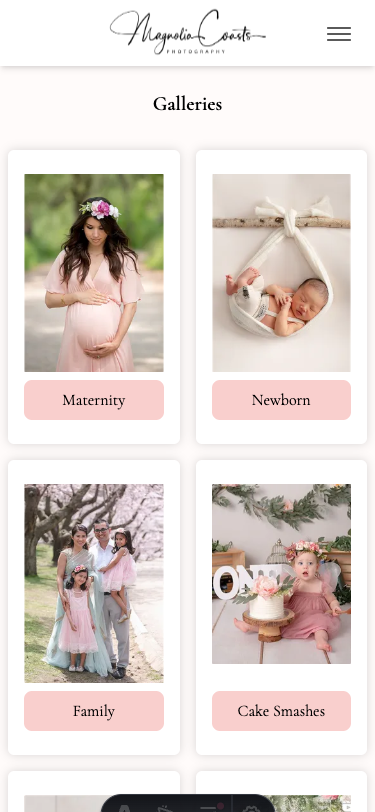
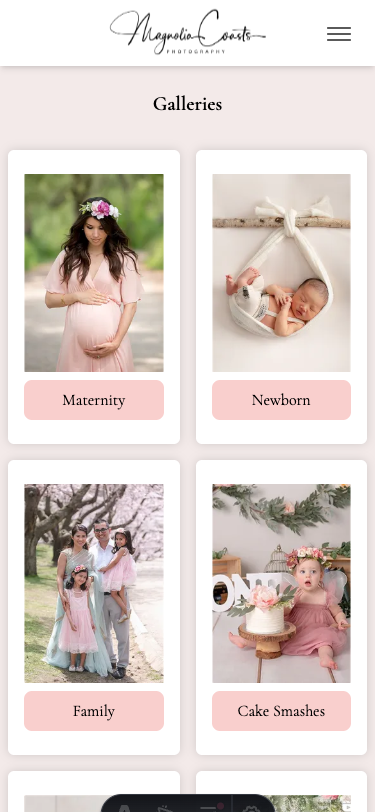
update global backgrounds

Changed region(s): [[0.5573, 0.585, 0.9387, 0.8621]]

diff --git a/src/styles/global.css b/src/styles/global.css
@@ -81,6 +81,7 @@
 
   --functional-max-width: 1440px;
   --color-app-active-grey: #939393;
+  --section-bg-color: rgb(243,234,233);
 }
 
 @theme {
